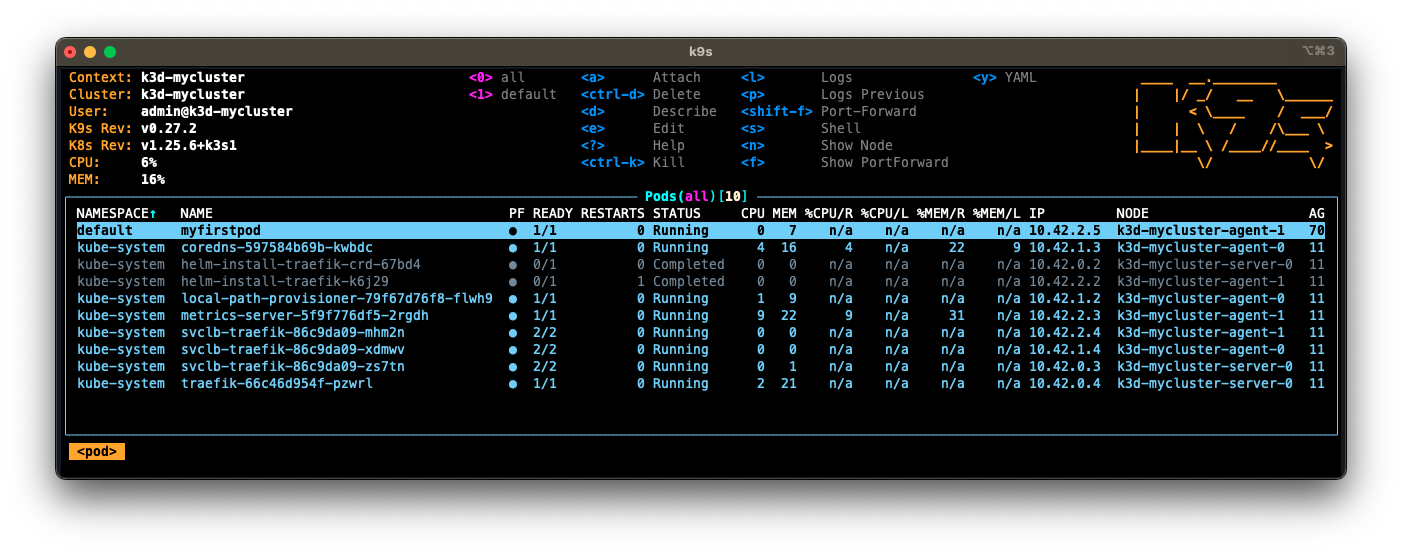
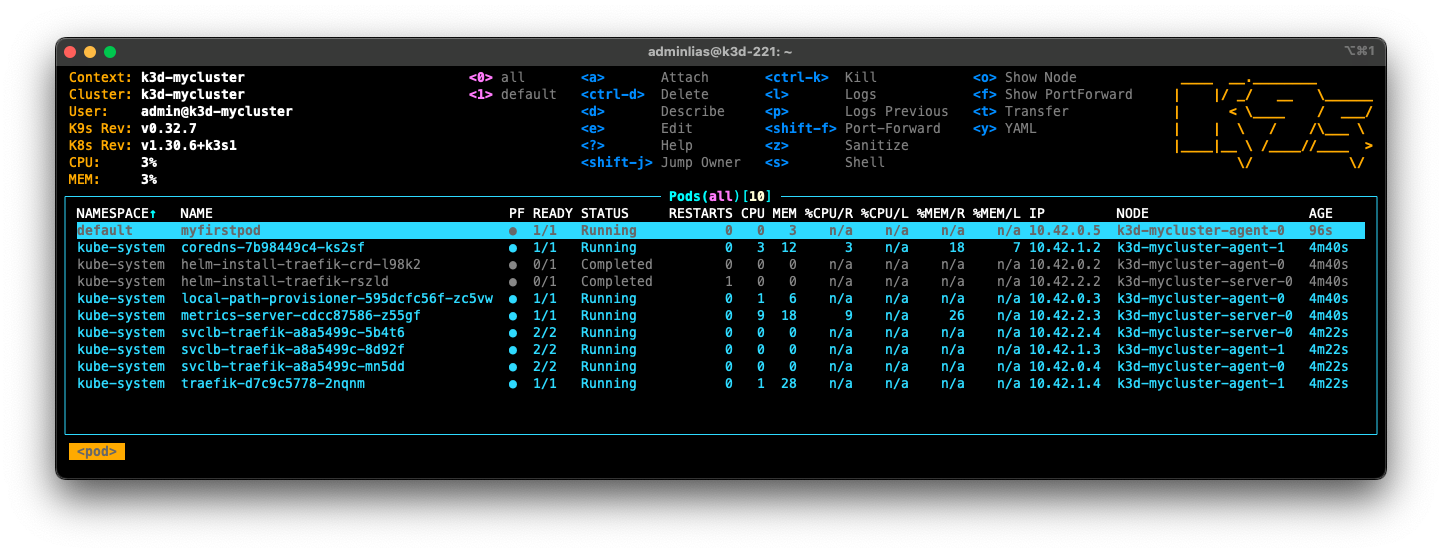
Update install

Changed region(s): [[0.0307, 0.0615, 0.9815, 0.8608], [0.3067, 0.0615, 0.7974, 0.3074], [0.0613, 0.8608, 0.9508, 0.8915]]

diff --git a/exercice1-pod-tools/README.md b/exercice1-pod-tools/README.md
@@ -20,7 +20,6 @@ Ce premier exercice sera aussi l'occasion de manipuler les outils **kubectl** et
 * Depuis l'invite de commande *k9s* : 
 
 ```
-$ export KUBECONFIG=$PWD/k3s.yaml
 $ k9s
 ```
 
@@ -45,18 +44,17 @@ Nous allons obtenir les mêmes informations depuis l'outil **kubectl**. Cependan
 * Depuis l'invite de commande *kubectl* :
 
 ```
-$ export KUBECONFIG=$PWD/k3s.yaml
 $ kubectl get pods --all-namespaces
 NAMESPACE     NAME                                      READY   STATUS      RESTARTS   AGE
-kube-system   local-path-provisioner-79f67d76f8-flwh9   1/1     Running     0          115m
-kube-system   coredns-597584b69b-kwbdc                  1/1     Running     0          115m
-kube-system   helm-install-traefik-crd-67bd4            0/1     Completed   0          115m
-kube-system   svclb-traefik-86c9da09-xdmwv              2/2     Running     0          115m
-kube-system   svclb-traefik-86c9da09-mhm2n              2/2     Running     0          115m
-kube-system   helm-install-traefik-k6j29                0/1     Completed   1          115m
-kube-system   svclb-traefik-86c9da09-zs7tn              2/2     Running     0          115m
-kube-system   traefik-66c46d954f-pzwrl                  1/1     Running     0          115m
-kube-system   metrics-server-5f9f776df5-2rgdh           1/1     Running     0          115m
+kube-system   coredns-7b98449c4-ks2sf                   1/1     Running     0          2m11s
+kube-system   helm-install-traefik-crd-l98k2            0/1     Completed   0          2m11s
+kube-system   helm-install-traefik-rszld                0/1     Completed   1          2m11s
+kube-system   local-path-provisioner-595dcfc56f-zc5vw   1/1     Running     0          2m11s
+kube-system   metrics-server-cdcc87586-z55gf            1/1     Running     0          2m11s
+kube-system   svclb-traefik-a8a5499c-5b4t6              2/2     Running     0          113s
+kube-system   svclb-traefik-a8a5499c-8d92f              2/2     Running     0          113s
+kube-system   svclb-traefik-a8a5499c-mn5dd              2/2     Running     0          113s
+kube-system   traefik-d7c9c5778-2nqnm                   1/1     Running     0          113s
 ```
 
 L'option `get` permet de récupérer les informations de l'objet passé en paramètre `pods`. Le paramètre `--all-namespaces` indique que tous les `Namespaces` sont considérés.
@@ -66,10 +64,10 @@ L'option `get` permet de récupérer les informations de l'objet passé en param
 ```
 $ kubectl get namespace
 NAME              STATUS   AGE
-default           Active   117m
-kube-system       Active   117m
-kube-public       Active   117m
-kube-node-lease   Active   117m
+default           Active   2m57s
+kube-node-lease   Active   2m57s
+kube-public       Active   2m57s
+kube-system       Active   2m57s
 ```
 
 Il est maintenant temps de créer notre premier `Pod` qui, pour rappel, est une représentation logique de un ou plusieurs conteneurs. 
@@ -186,7 +184,7 @@ L'option `apply` permet d'appliquer un fichier de configuration au cluster K8s.
 ```
 $ kubectl get pods mypod -o wide
 NAME    READY   STATUS    RESTARTS   AGE   IP          NODE                 
-mypod   2/2     Running   0          23s   10.42.2.6   k3d-mycluster-agent-1
+mypod   2/2     Running   0          15s   10.42.0.6   k3d-mycluster-agent-0
 ```
 
 Nous introduisons le paramètre `-o` dans l'option `get` qui permet d'obtenir des informations plus détaillées. Nous remarquons également que les deux conteneurs sont en cours d'exécution (`2/2`). Enfin, le `Pod` est déployé dans le nœud de travail `k3d-mycluster-agent-1`.
@@ -199,32 +197,32 @@ Name:             mypod
 Namespace:        default
 Priority:         0
 Service Account:  default
-Node:             k3d-mycluster-agent-1/172.29.0.4
-Start Time:       Tue, 07 Feb 2023 14:49:58 +0100
+Node:             k3d-mycluster-agent-0/172.18.0.4
+Start Time:       Thu, 09 Jan 2025 15:23:03 +0000
 Labels:           <none>
 Annotations:      <none>
 Status:           Running
-IP:               10.42.2.6
+IP:               10.42.0.6
 IPs:
-  IP:  10.42.2.6
+  IP:  10.42.0.6
 Containers:
   mycontainer-1:
-    Container ID:   containerd://79f46fa666100f1d1cb45c8a1e3d706c1df5fa7f677675f1350d6a08780f7527
+    Container ID:   containerd://5070b101ca8e4617207ee43db26973758372273a2ca34f73202688f2d3caf5fa
     Image:          nginx:latest
-    Image ID:       docker.io/library/nginx@sha256:c54fb26749e49dc2df77c6155e8b5f0f78b781b7f0eadd96ecfabdcdfa5b1ec4
+    Image ID:       docker.io/library/nginx@sha256:42e917aaa1b5bb40dd0f6f7f4f857490ac7747d7ef73b391c774a41a8b994f15
     Port:           80/TCP
     Host Port:      0/TCP
     State:          Running
-      Started:      Tue, 07 Feb 2023 14:49:59 +0100
+      Started:      Thu, 09 Jan 2025 15:23:04 +0000
     Ready:          True
     Restart Count:  0
     Environment:    <none>
     Mounts:
-      /var/run/secrets/kubernetes.io/serviceaccount from kube-api-access-zlnj6 (ro)
+      /var/run/secrets/kubernetes.io/serviceaccount from kube-api-access-v9jks (ro)
   mycontainer-2:
-    Container ID:  containerd://5f76a700206b9ad9157751d4e99770a7741c7273278a3e5b8dff1ea7ffc6b20d
+    Container ID:  containerd://6aab02d6708a43e2c478922ba23a1393af5ab34e17d020a63cb8f504af167a66
     Image:         alpine:latest
-    Image ID:      docker.io/library/alpine@sha256:f271e74b17ced29b915d351685fd4644785c6d1559dd1f2d4189a5e851ef753a
+    Image ID:      docker.io/library/alpine@sha256:56fa17d2a7e7f168a043a2712e63aed1f8543aeafdcee47c58dcffe38ed51099
     Port:          <none>
     Host Port:     <none>
     Command:
@@ -233,20 +231,21 @@ Containers:
       -qO-
       localhost
     State:          Running
-      Started:      Tue, 07 Feb 2023 14:50:02 +0100
+      Started:      Thu, 09 Jan 2025 15:23:05 +0000
     Ready:          True
     Restart Count:  0
     Environment:    <none>
     Mounts:
-      /var/run/secrets/kubernetes.io/serviceaccount from kube-api-access-zlnj6 (ro)
+      /var/run/secrets/kubernetes.io/serviceaccount from kube-api-access-v9jks (ro)
 Conditions:
-  Type              Status
-  Initialized       True
-  Ready             True
-  ContainersReady   True
-  PodScheduled      True
+  Type                        Status
+  PodReadyToStartContainers   True
+  Initialized                 True
+  Ready                       True
+  ContainersReady             True
+  PodScheduled                True
 Volumes:
-  kube-api-access-zlnj6:
+  kube-api-access-v9jks:
     Type:                    Projected (a volume that contains injected data from multiple sources)
     TokenExpirationSeconds:  3607
     ConfigMapName:           kube-root-ca.crt
@@ -259,15 +258,15 @@ Tolerations:                 node.kubernetes.io/not-ready:NoExecute op=Exists fo
 Events:
   Type    Reason     Age   From               Message
   ----    ------     ----  ----               -------
-  Normal  Scheduled  97s   default-scheduler  Successfully assigned default/mypod to k3d-mycluster-agent-1
-  Normal  Pulling    98s   kubelet            Pulling image "nginx:latest"
-  Normal  Pulled     97s   kubelet            Successfully pulled image "nginx:latest" in 660.068216ms (660.07449ms including waiting)
-  Normal  Created    97s   kubelet            Created container mycontainer-1
-  Normal  Started    97s   kubelet            Started container mycontainer-1
-  Normal  Pulling    97s   kubelet            Pulling image "alpine:latest"
-  Normal  Pulled     94s   kubelet            Successfully pulled image "alpine:latest" in 2.756540405s (2.756547566s including waiting)
-  Normal  Created    94s   kubelet            Created container mycontainer-2
-  Normal  Started    94s   kubelet            Started container mycontainer-2
+  Normal  Scheduled  43s   default-scheduler  Successfully assigned default/mypod to k3d-mycluster-agent-0
+  Normal  Pulling    43s   kubelet            Pulling image "nginx:latest"
+  Normal  Pulled     42s   kubelet            Successfully pulled image "nginx:latest" in 668ms (668ms including waiting). Image size: 72099410 bytes.
+  Normal  Created    42s   kubelet            Created container mycontainer-1
+  Normal  Started    42s   kubelet            Started container mycontainer-1
+  Normal  Pulling    42s   kubelet            Pulling image "alpine:latest"
+  Normal  Pulled     42s   kubelet            Successfully pulled image "alpine:latest" in 709ms (709ms including waiting). Image size: 3652536 bytes.
+  Normal  Created    42s   kubelet            Created container mycontainer-2
+  Normal  Started    41s   kubelet            Started container mycontainer-2
 ``` 
 
 * Comme le `Pod` _mypod_ dispose de deux conteneurs (_mycontainer-1_ et _mycontainer-2_), nous montrons comment exécuter une commande en choisissant un conteneur. Depuis l'invite de commande *kubectl* :

diff --git a/exercice0-k3d/README.md b/exercice0-k3d/README.md
@@ -37,8 +37,8 @@ $ wget -q -O - https://raw.githubusercontent.com/rancher/k3d/main/install.sh | b
 
 ```
 $ k3d version
-k3d version v5.6.0
-k3s version v1.27.5-k3s1 (default)
+k3d version v5.7.5
+k3s version v1.30.6-k3s1 (default)
 ```
 
 Nous allons créer un cluster Kubernetes composé de trois nœuds dont un sera dédié au nœud maître et les deux autres seront dédiés aux nœuds de travail. Sous [K3d](https://k3d.io/), un nœud de travail est intitulé `agent` et un nœud maître est intitulé `server`.
@@ -56,18 +56,17 @@ Cette commande crée un cluster Kubernetes appelé `mycluster`. Il contient deux
 ```
 $ docker ps
 CONTAINER ID   IMAGE                            COMMAND                  CREATED          STATUS          PORTS                             NAMES
-9f2d698dbc2f   ghcr.io/k3d-io/k3d-tools:5.6.0   "/app/k3d-tools noop"    30 seconds ago   Up 28 seconds                                     k3d-mycluster-tools
-f26ca44f1a13   ghcr.io/k3d-io/k3d-proxy:5.6.0   "/bin/sh -c nginx-pr…"   30 seconds ago   Up 18 seconds   80/tcp, 0.0.0.0:59937->6443/tcp   k3d-mycluster-serverlb
-61f42423fc40   rancher/k3s:v1.27.5-k3s1         "/bin/k3d-entrypoint…"   35 seconds ago   Up 21 seconds                                     k3d-mycluster-agent-1
-fc10281a3582   rancher/k3s:v1.27.5-k3s1         "/bin/k3d-entrypoint…"   35 seconds ago   Up 22 seconds                                     k3d-mycluster-agent-0
-7e8c1dc93b0d   rancher/k3s:v1.27.5-k3s1         "/bin/k3d-entrypoint…"   35 seconds ago   Up 27 seconds                                     k3d-mycluster-server-0
+d704cbb9c45c   ghcr.io/k3d-io/k3d-proxy:5.7.5   "/bin/sh -c nginx-pr…"   33 seconds ago   Up 23 seconds   80/tcp, 0.0.0.0:44741->6443/tcp   k3d-mycluster-serverlb
+c0198c7d914d   rancher/k3s:v1.30.6-k3s1         "/bin/k3d-entrypoint…"   40 seconds ago   Up 28 seconds                                     k3d-mycluster-agent-1
+a27803a3028f   rancher/k3s:v1.30.6-k3s1         "/bin/k3d-entrypoint…"   40 seconds ago   Up 28 seconds                                     k3d-mycluster-agent-0
+7fba4be33563   rancher/k3s:v1.30.6-k3s1         "/bin/k3d-entrypoint…"   40 seconds ago   Up 32 seconds                                     k3d-mycluster-server-0
 ```
 
-Les deux nœuds de travail sont encapsulés par les deux conteneurs nommés `k3d-mycluster-agent-0` et `k3d-mycluster-agent-1`, le nœud maître est encapsulé par un (1) conteneur nommé `k3d-mycluster-server-0`, un conteneur `k3d-mycluster-serverlb` qui sert d'équilibreur de charge (_LoadBalancer_) pour le cluster K8s et finalement un conteneur `k3d-mycluster-tools` qui fournit des outils spécifiques comme par exemple l'importation d'images [Docker](https://www.docker.com/ "Docker") vers un cluster [K3s](https://k3s.io/).
+Les deux nœuds de travail sont encapsulés par les deux conteneurs nommés `k3d-mycluster-agent-0` et `k3d-mycluster-agent-1`, le nœud maître est encapsulé par un (1) conteneur nommé `k3d-mycluster-server-0` et un conteneur `k3d-mycluster-serverlb` qui sert d'équilibreur de charge (_LoadBalancer_) pour le cluster K8s.
 
-Afin que nous puissions accéder au cluster Kubernetes, nous devons récupérer un fichier d'accès qui contiendra des informations comme les autorisations pour les outils clients. Ce fichier d'accès permet de communiquer avec le composant *API Server* d'un cluster.
+Pour permettre l'accès au cluster Kubernetes, [K3d](https://k3d.io/) génère un fichier dans _~/.kube/config_. Ce fichier contient des informations, telles que les autorisations nécessaires pour les outils clients, et sert à établir la communication avec le composant API Server du cluster.
 
-* Se placer à la racine du dossier du dépôt de ce tutoriel et exécuter la ligne de commande suivante pour récupérer ce fichier d'accès :
+Si vous souhaitez récupérer ce fichier, vous pouvez exécuter la commande suivante pour l'obtenir :
 
 ```
 $ k3d kubeconfig get mycluster > k3s.yaml
@@ -103,15 +102,14 @@ $ kubectl version --client
 * Pour tester si **kubectl** est correctement installé :
 
 ```
-$ export KUBECONFIG=$PWD/k3s.yaml
 $ kubectl top nodes
 NAME                     CPU(cores)   CPU%   MEMORY(bytes)   MEMORY%
-k3d-mycluster-agent-0    26m          1%     122Mi           1%
-k3d-mycluster-agent-1    36m          1%     209Mi           2%
-k3d-mycluster-server-0   82m          4%     626Mi           7%
+k3d-mycluster-agent-0    55m          2%     176Mi           2%
+k3d-mycluster-agent-1    78m          3%     235Mi           2%
+k3d-mycluster-server-0   101m         5%     426Mi           5%
 ```
 
-La première ligne de commande permet d'indiquer à **kubectl** où se trouve le fichier d'accès au cluster Kubernetes. Cette commande n'est à réaliser qu'une seule fois à l'ouvertue de votre terminal. Le seconde ligne de commande permet d'obtenir des informations sur les ressources utilisées par des objets gérés par Kubernetes (ici l'objet est un nœud).
+La commande permet d'obtenir des informations sur les ressources utilisées par des objets gérés par Kubernetes (ici l'objet est un nœud).
 
 ### Installation K9s
 
@@ -128,7 +126,7 @@ $ brew install k9s
 **Linux** : pour installer **K9s** :
 
 ```
-$ wget https://github.com/derailed/k9s/releases/download/v0.32.5/k9s_Linux_amd64.tar.gz
+$ wget https://github.com/derailed/k9s/releases/download/v0.32.7/k9s_Linux_amd64.tar.gz
 $ tar xzf k9s_Linux_amd64.tar.gz
 $ sudo mv ./k9s /usr/local/bin/k9s
 ```
@@ -138,8 +136,7 @@ $ sudo mv ./k9s /usr/local/bin/k9s
 * Pour tester si **K9s** est correctement installé, depuis un autre terminal :
 
 ```
-$ export KUBECONFIG=./k3s.yaml
-$ ./k9s
+$ k9s
 ```
 
 Vous devriez obtenir le même résultat que sur la figure ci-dessous.
